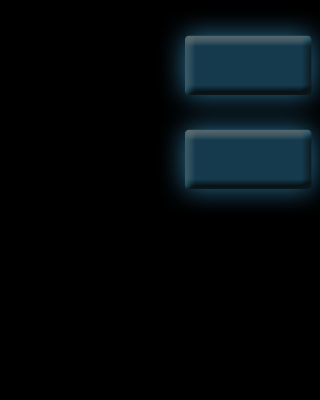
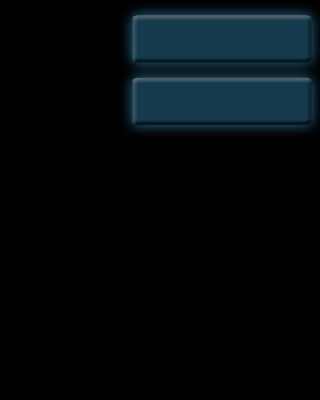
added eventdetail background

Changed region(s): [[0.375, 0.0, 1.0, 0.51]]

diff --git a/InfiNIght/InfiNIght/AppDelegate.m b/InfiNIght/InfiNIght/AppDelegate.m
@@ -40,8 +40,9 @@
     // Please populate AirshipConfig.plist with your info from http://go.urbanairship.com
     [UAirship takeOff:takeOffOptions];
     [[UAPush shared] setAutobadgeEnabled:YES];
-    [UIApplication sharedApplication].applicationIconBadgeNumber = 0;
-    [[UAPush shared] setBadgeNumber:0];
+  //  [UIApplication sharedApplication].applicationIconBadgeNumber = 0;
+    //[[UAPush shared] setBadgeNumber:0];
+    [[UAPush shared] resetBadge];
     
     if(!defaultValues) {
         defaultValues = [[NSMutableDictionary alloc] init ];
@@ -72,33 +73,31 @@
 		if (dictionary != nil)
 		{
             [UIApplication sharedApplication].applicationIconBadgeNumber = 0;
-            [[UAPush shared] setBadgeNumber:0];
+          //  [[UAPush shared] setBadgeNumber:0];
             NSLog(@"dictionnary thing");
 
 		}
 	}
 
-
-
     return YES;
-}
--(void) handleOpenOnPush {
-    [self.act refreshActivities];
-    NSLog(@"refresh got called ...");
 }
 
 
 -(void) applicationDidBecomeActive:(UIApplication *)application {
     [UIApplication sharedApplication].applicationIconBadgeNumber = 0;
+    [[UAPush shared] resetBadge];
 }
 - (void)application:(UIApplication*)application didReceiveRemoteNotification:(NSDictionary*)userInfo
 {
-	NSLog(@"Received notification: %@", userInfo);
+	UIAlertView *view = [[UIAlertView alloc] initWithTitle:@"kfdsj" message:nil delegate:nil cancelButtonTitle:@"ok" otherButtonTitles: nil];
+    [view show];
+    [[UAPush shared] handleNotification:userInfo applicationState:application.applicationState];
+
     [[UAPush shared] resetBadge];
 }
 - (void)application:(UIApplication*)application didRegisterForRemoteNotificationsWithDeviceToken:(NSData*)deviceToken
 {
-    [[UAPush shared] resetBadge];
+    UALOG(@"APN device token: %@", deviceToken);
     // Updates the device token and registers the token with UA
     [[UAPush shared] registerDeviceToken:deviceToken];
     
@@ -114,31 +113,7 @@
     
 
 }
-//-(void) updateToken: (NSString *) token {
-//    NSURL *baseUrl = [[NSURL alloc] initWithString:@"http://10.11.1.59:8888"];
-//    
-//    AFHTTPClient *httpClient =[[AFHTTPClient alloc] initWithBaseURL:baseUrl];
-//    [httpClient defaultValueForHeader:@"Accept"];
-//    
-//    NSMutableDictionary *params = [[NSMutableDictionary alloc] init];    
-//    [params setObject:@"update" forKey:@"cmd"];
-//    [params setObject:token forKey:@"token"];
-//    
-//    NSMutableURLRequest *request = [httpClient requestWithMethod:@"POST" path:@"/api.php" parameters:params];
-//    
-//    AFHTTPRequestOperation *operation = [[AFHTTPRequestOperation alloc] initWithRequest:request];
-//    
-//    [httpClient registerHTTPOperationClass:[AFHTTPRequestOperation class]];
-//    [operation setCompletionBlockWithSuccess:^(AFHTTPRequestOperation *operation, id responseObject) {        
-//        NSLog(@"token was updated");
-//        
-//    }failure:^(AFHTTPRequestOperation *operation, NSError *error) {
-//        NSLog(@"error: %@", [operation error]);
-//
-//    }];
-//    
-//    [operation start];
-//}
+
 + (NSString *) device_id {
     
     NSString* uuid = [[NSUserDefaults standardUserDefaults] objectForKey:@"uuid"];
@@ -167,8 +142,7 @@
 {
     // Sent when the application is about to move from active to inactive state. This can occur for certain types of temporary interruptions (such as an incoming phone call or SMS message) or when the user quits the application and it begins the transition to the background state.
     // Use this method to pause ongoing tasks, disable timers, and throttle down OpenGL ES frame rates. Games should use this method to pause the game.
-    [[UAPush shared] resetBadge];
-        NSLog(@"will resign active");
+
 
 }
 
@@ -273,6 +247,6 @@
 {
     return [[[NSFileManager defaultManager] URLsForDirectory:NSDocumentDirectory inDomains:NSUserDomainMask] lastObject];
     
-}   
+}
 
 @end

diff --git a/InfiNIght/InfiNIght/HECPartyDetailVC.m b/InfiNIght/InfiNIght/HECPartyDetailVC.m
@@ -82,21 +82,21 @@
     UITapGestureRecognizer *singleTap = [[UITapGestureRecognizer alloc] initWithTarget:self action:@selector(handleSingleTap:)];
     [self.imagePhoto addGestureRecognizer:singleTap];
     
-    self.dateLbl = [[UILabel alloc] initWithFrame:CGRectMake(132.5f, 30, 185, 30)];
+    self.dateLbl = [[UILabel alloc] initWithFrame:CGRectMake(132.5f, 40, 185, 30)];
     self.dateLbl.text = [self.eventInfo objectForKey:@"event_date_string"];
     self.dateLbl.textAlignment = UITextAlignmentCenter;
     self.dateLbl.backgroundColor = [UIColor clearColor];
     self.dateLbl.textColor = [UIColor whiteColor];
     self.dateLbl.font = [UIFont fontWithName:@"Helvetica" size:14.0f];
     
-    UILabel *where = [[UILabel alloc] initWithFrame:CGRectMake(132.5f, 90, 185, 20)];
+    UILabel *where = [[UILabel alloc] initWithFrame:CGRectMake(132.5f, 95, 185, 20)];
     where.text = @"Lieu";
     where.textAlignment = UITextAlignmentCenter;
     where.backgroundColor = [UIColor clearColor];
     where.textColor = [UIColor whiteColor];
     where.font = [UIFont fontWithName:@"Helvetica" size:14.0f];
     
-    UILabel *when = [[UILabel alloc] initWithFrame:CGRectMake(132.5f, 15, 185, 20)];
+    UILabel *when = [[UILabel alloc] initWithFrame:CGRectMake(132.5f, 25, 185, 20)];
     when.text = @"Date";
     when.textAlignment = UITextAlignmentCenter;
     when.backgroundColor = [UIColor clearColor];
